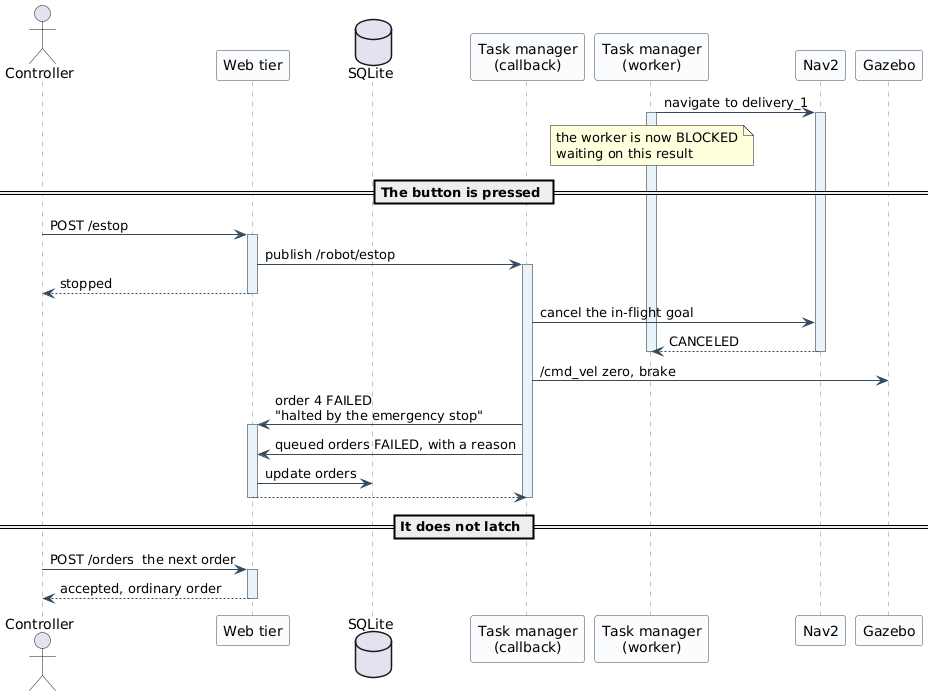
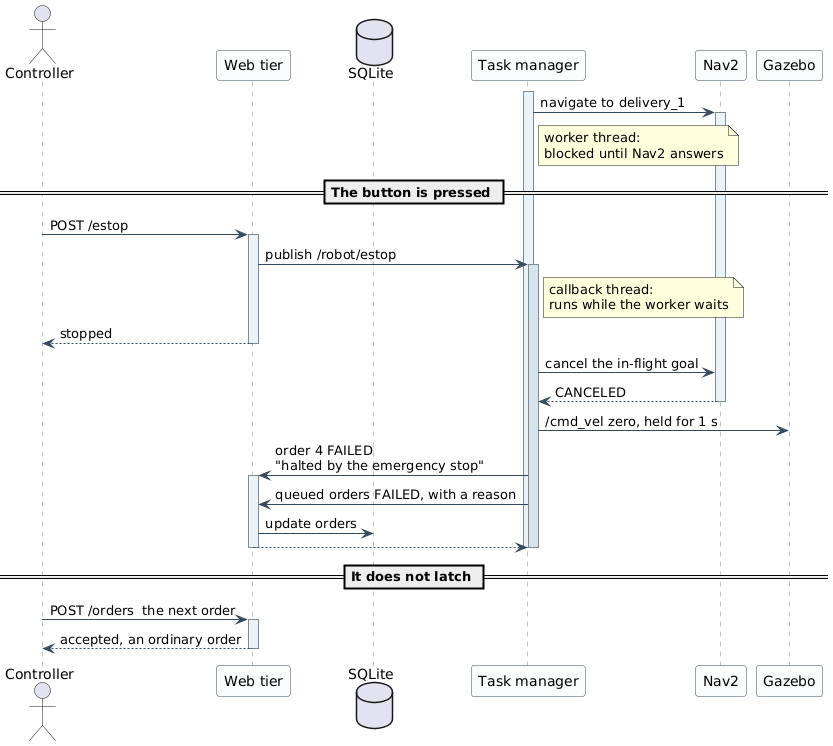
Emergency stop: one lifeline for the task manager, not two
The task manager was drawn as two lifelines, "callback" and "worker". That is
wrong as UML: a lifeline represents one participant, and the task manager is a
single component, so two lifelines assert two objects that do not exist.

It is now one lifeline carrying two overlapping execution occurrences. The outer
bar is the worker thread, blocked waiting on a navigation result; the inner one,
offset to its right, is the subscription callback that runs while the worker
cannot. Overlapping execution specifications on a single lifeline are what UML
provides for concurrent execution inside one participant, so the diagram now
says the same thing in the notation that means it.

The design point survives intact, which was the reason for the two lifelines in
the first place: the stop is handled on the callback precisely because the
worker is blocked at the moment the button is pressed. The caption now explains
the two bars so the notation is not left to be inferred.

diff --git a/report/RoboFetch_Software_Engineering_Report.tex b/report/RoboFetch_Software_Engineering_Report.tex
@@ -1347,10 +1347,12 @@ return. The classifier is consulted, but the policy gates decide; nothing is wri
 table and the robot is never sent, so a refusal costs one preview.}{fig:seqrefused}
 
 \uploadedfigure{Figures/12-sequence-emergency-stop.png}{0.95\textwidth}
-{Scenario 3: the operator halts a running order. The stop is handled on the subscription callback
-rather than on the worker thread, because the worker is blocked waiting on a navigation result at
-exactly the moment the button is pressed. Nothing is written by the stop itself, so it does not
-survive a logout and the next order is an ordinary one.}{fig:seqestop}
+{Scenario 3: the operator halts a running order. The task manager carries \emph{two overlapping
+execution occurrences}: the outer one is its worker thread, blocked waiting on a navigation result
+at exactly the moment the button is pressed, and the inner one is the subscription callback, which
+is free to act while the worker cannot. That is why the stop is handled on the callback rather than
+on the worker. Nothing is written by the stop itself, so it does not survive a logout and the next
+order is an ordinary one.}{fig:seqestop}
 
 \section{The Database Layer}
 The database layer is a single class that owns the schema and exposes domain operations. On first
